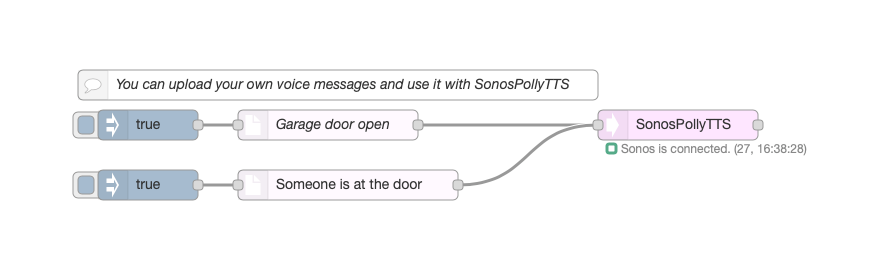
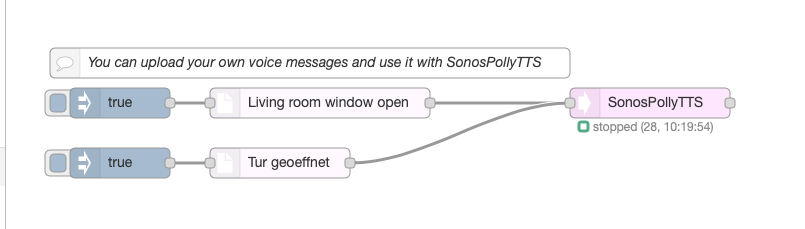
Sample code OwnFile

Changed region(s): [[0.0311, 0.2445, 0.9317, 0.7948], [0.0621, 0.1834, 0.7143, 0.214]]

diff --git a/README.md b/README.md
@@ -260,6 +260,123 @@ node.send({payload:"Warning. Intruder in the dinning room."};
 
 <img src='https://github.com/Supergiovane/node-red-contrib-sonospollytts/raw/master/img/sampleOwnFile.png' width="80%">
 
+
+
+<details><summary> --->> VIEW SAMPLE CODE  <<--- </summary>
+
+> Adjust the nodes according to your setup
+
+```js
+[
+    {
+        "id": "9389863f.c9e44",
+        "type": "sonospollytts",
+        "z": "2e6a2c30.383f64",
+        "name": "",
+        "purgediratrestart": "leave",
+        "voice": "51",
+        "ssml": false,
+        "dir": "/tmp",
+        "sonosipaddress": "192.168.1.109",
+        "sonosvolume": "20",
+        "sonoshailing": "0",
+        "noderedipaddress": "192.168.1.146",
+        "noderedport": "1980",
+        "config": "8194024b.fa7",
+        "x": 680,
+        "y": 340,
+        "wires": [
+            []
+        ]
+    },
+    {
+        "id": "90a05585.bc514",
+        "type": "ownfile",
+        "z": "2e6a2c30.383f64",
+        "name": "",
+        "selectedFile": "OwnFile_Living room window open.mp3",
+        "x": 350,
+        "y": 340,
+        "wires": [
+            [
+                "9389863f.c9e44"
+            ]
+        ]
+    },
+    {
+        "id": "d416ac1c.e5c8b",
+        "type": "inject",
+        "z": "2e6a2c30.383f64",
+        "name": "",
+        "topic": "",
+        "payload": "true",
+        "payloadType": "bool",
+        "repeat": "",
+        "crontab": "",
+        "once": false,
+        "onceDelay": 0.1,
+        "x": 150,
+        "y": 340,
+        "wires": [
+            [
+                "90a05585.bc514"
+            ]
+        ]
+    },
+    {
+        "id": "3b08c36d.aba304",
+        "type": "comment",
+        "z": "2e6a2c30.383f64",
+        "name": "You can upload your own voice messages and use it with SonosPollyTTS",
+        "info": "",
+        "x": 340,
+        "y": 300,
+        "wires": []
+    },
+    {
+        "id": "b6061743.7f9ce",
+        "type": "ownfile",
+        "z": "2e6a2c30.383f64",
+        "name": "",
+        "selectedFile": "OwnFile_Tur geoeffnet.mp3",
+        "x": 310,
+        "y": 400,
+        "wires": [
+            [
+                "9389863f.c9e44"
+            ]
+        ]
+    },
+    {
+        "id": "6cac28fd.4088a8",
+        "type": "inject",
+        "z": "2e6a2c30.383f64",
+        "name": "",
+        "topic": "",
+        "payload": "true",
+        "payloadType": "bool",
+        "repeat": "",
+        "crontab": "",
+        "once": false,
+        "onceDelay": 0.1,
+        "x": 150,
+        "y": 400,
+        "wires": [
+            [
+                "b6061743.7f9ce"
+            ]
+        ]
+    },
+    {
+        "id": "8194024b.fa7",
+        "type": "sonospollytts-config",
+        "z": "",
+        "name": "asd"
+    }
+]
+```
+</details>
+
 This node allow you to upload your custom message and play it via SonosPollyTTS without the need of an internet connection. You can use it, for example, with your alarm panel, to annuce a zone breach, a doorbell or so.
 
 **Name**<br/>
